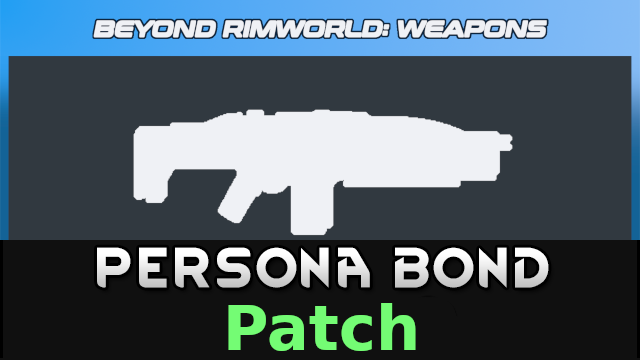
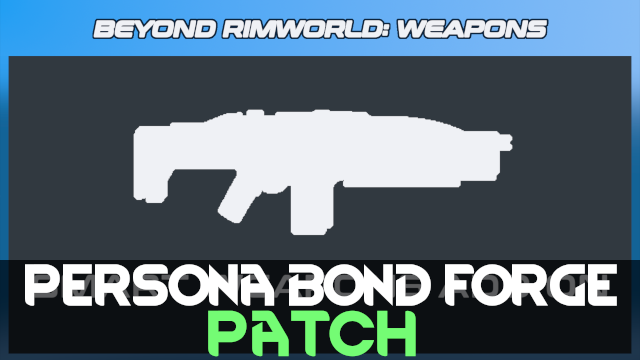
Update preview.png and README.md

Changed region(s): [[0.0, 0.6417, 1.0, 1.0]]

diff --git a/README.md b/README.md
@@ -2,6 +2,14 @@
 
 ![](https://github.com/Daria40K/Persona-Bond-Patch-for-Beyond-Ultratech-Smart-Weapons/blob/main/About/preview.png)
 
+## Required Mods
+- [Persona Bond Forge](https://steamcommunity.com/workshop/filedetails/?id=2178003816) (Steam)
+- [Beyond Ultratech: Smart Weapons](https://steamcommunity.com/sharedfiles/filedetails/?id=2636816296) (Steam)
+
+## Download
+- [Steam](https://steamcommunity.com/sharedfiles/filedetails/?id=2748402412)
+- [GitHub](https://github.com/Daria40K/Persona-Bond-Patch-for-Beyond-Ultratech-Smart-Weapons/releases)
+
 ## Weapons Patch
 - Smart Pistol
 - Smart Shotgun
